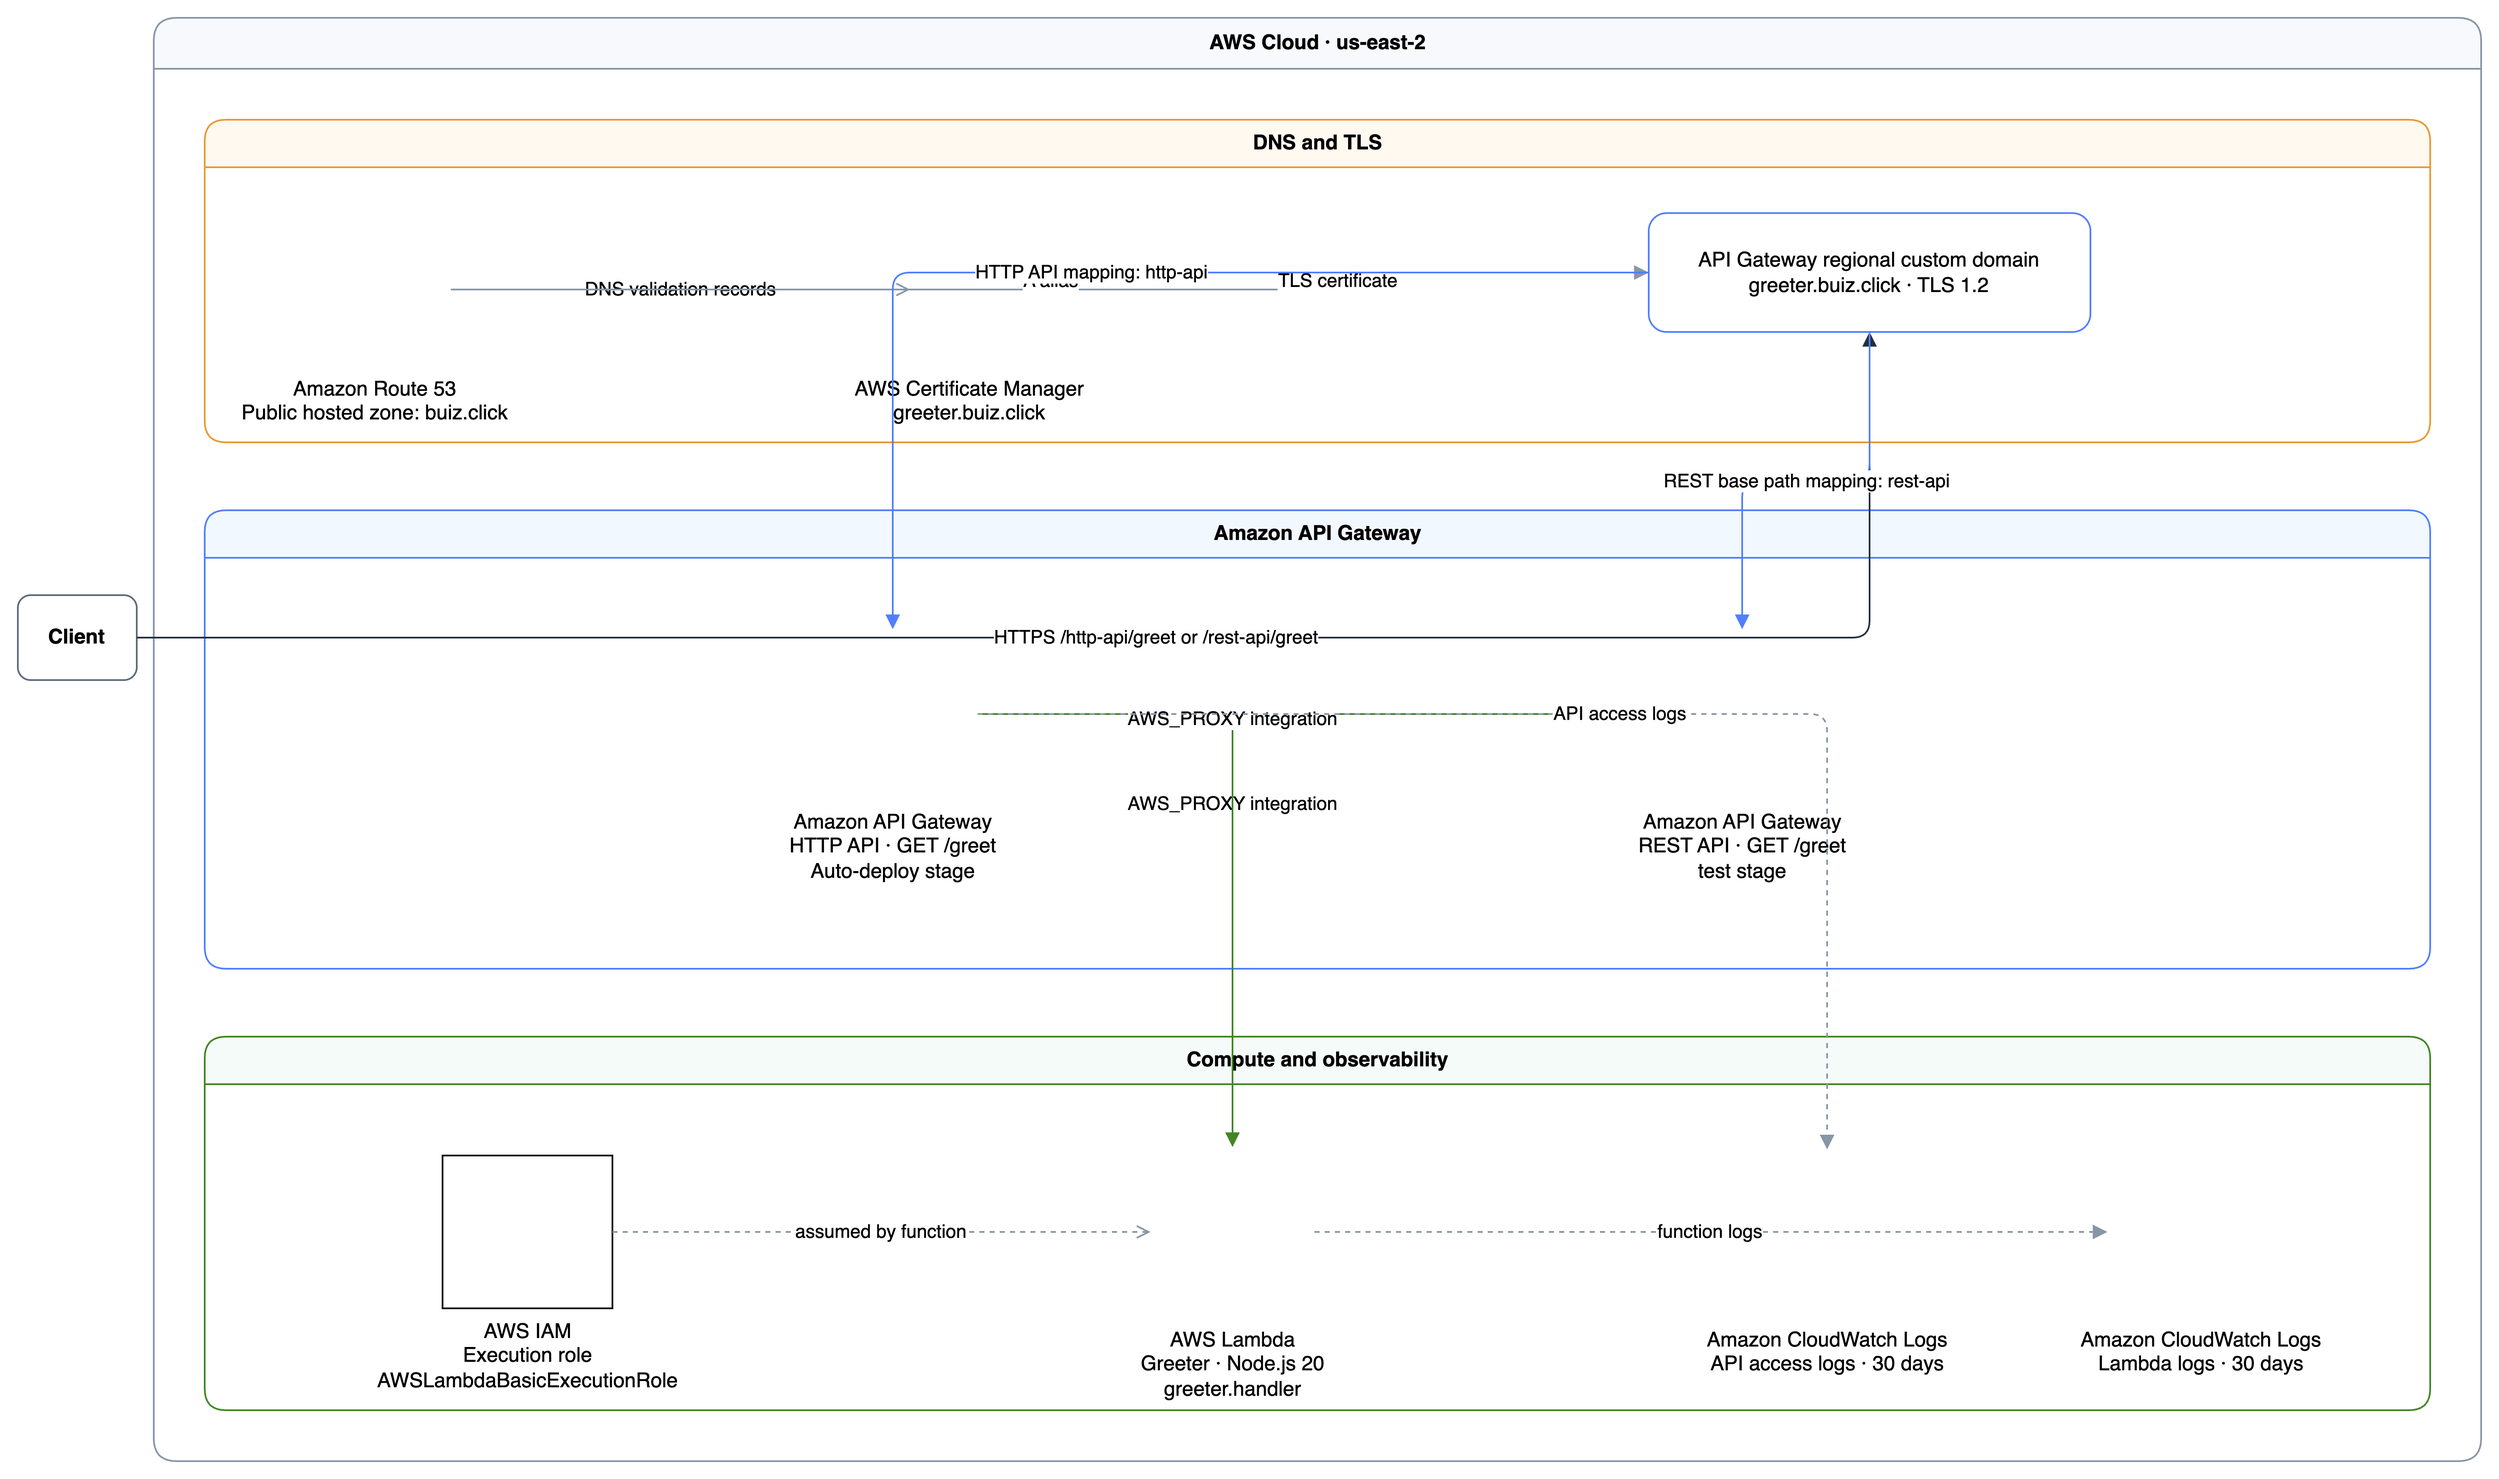
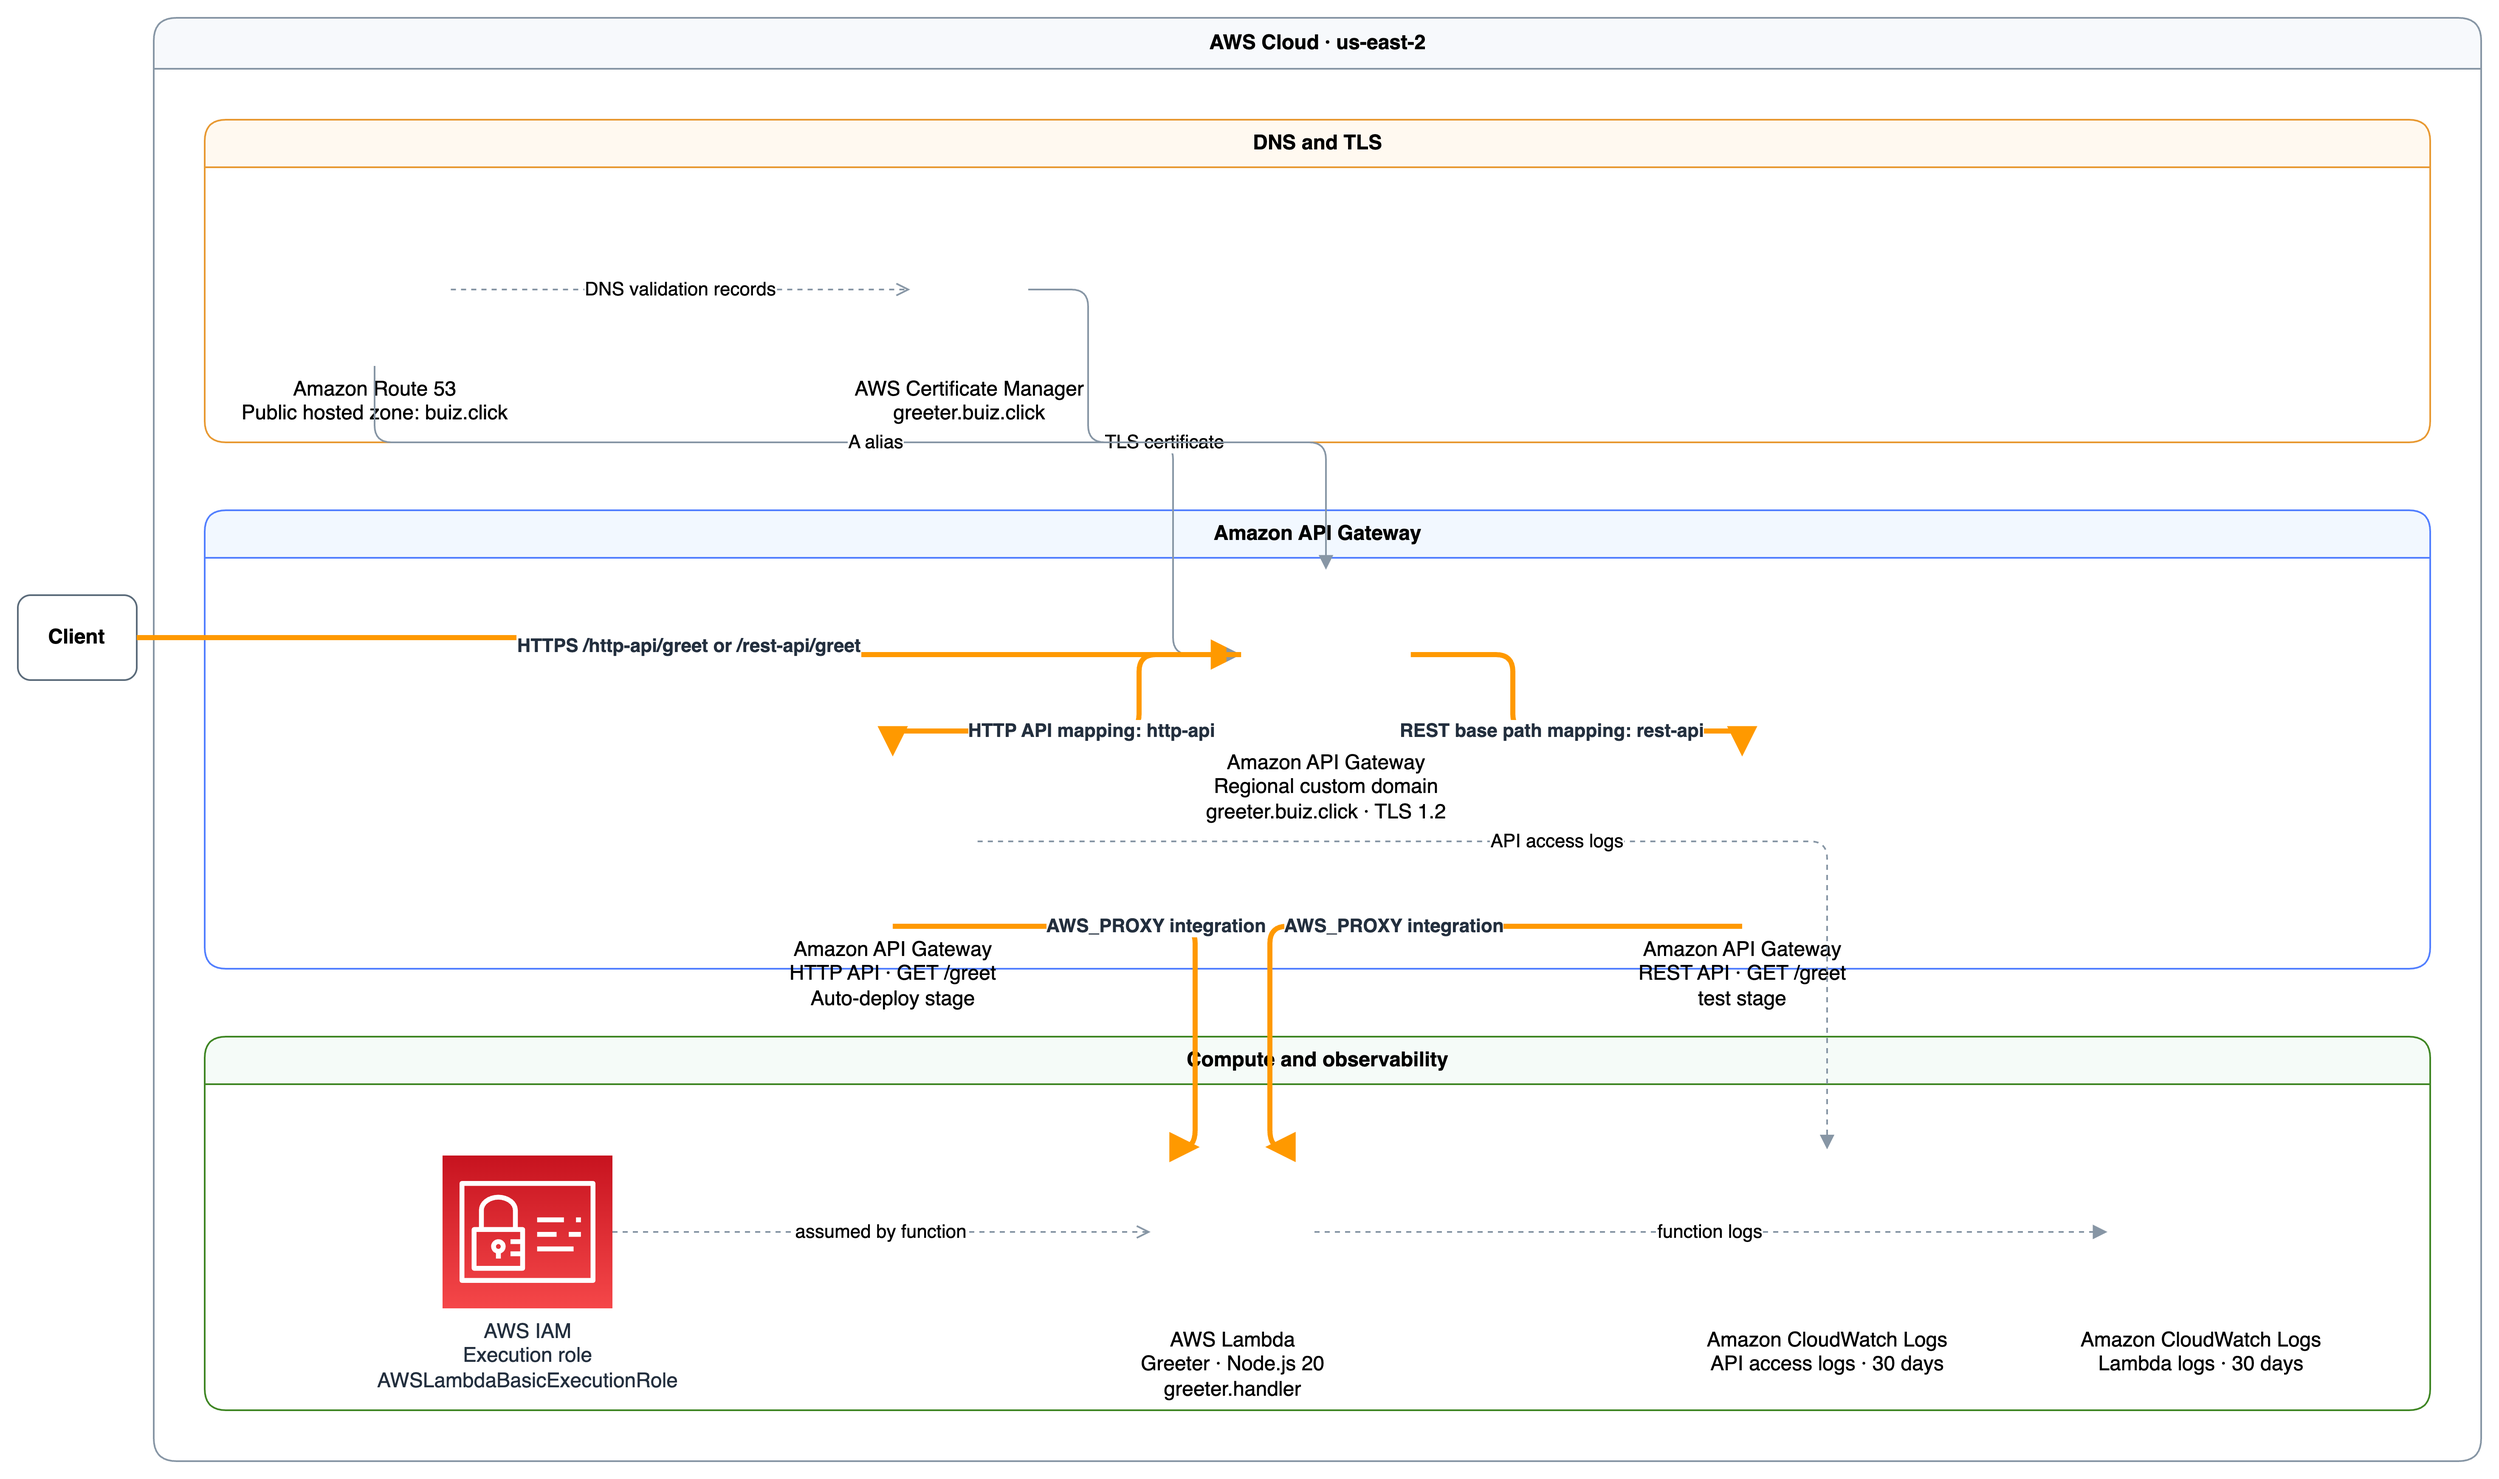
fix: arch diagram

diff --git a/TerraformAws/README.md b/TerraformAws/README.md
@@ -21,5 +21,3 @@ See the [AWS architecture diagram](ARCHITECTURE.drawio) (editable in diagrams.ne
      - disable_execute_api_endpoint = true
 
 ![img.png](img.png)
-
-![img_1.png](img_1.png)
